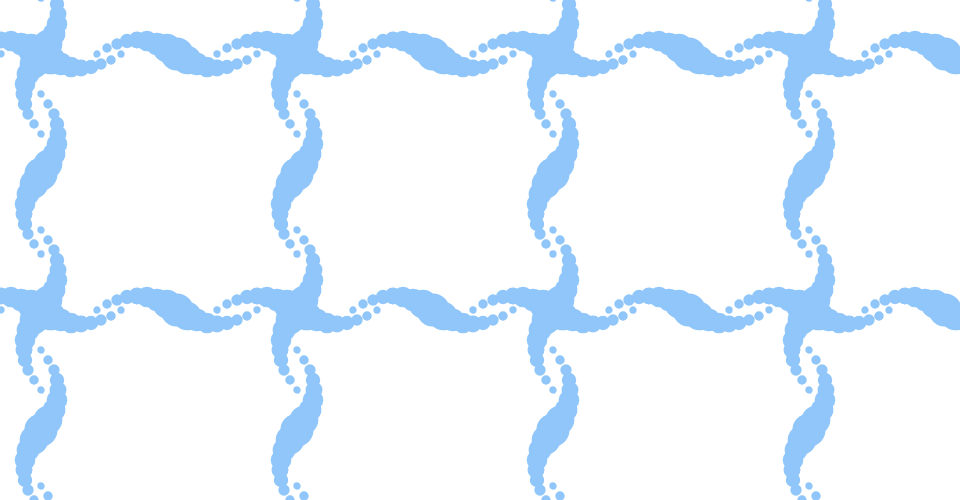
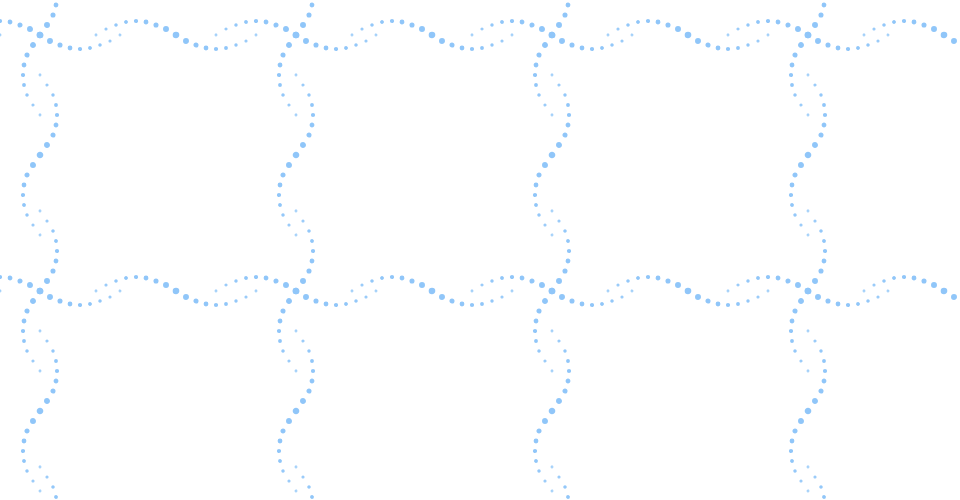
second attempt at animation

Changed region(s): [[0.0, 0.0, 1.0, 1.0]]

diff --git a/example_framed_dot.js b/example_framed_dot.js
@@ -281,286 +281,283 @@ let sineWave = p5.sin(p5.globalFrameCount/12);
   //ONLINE HORIZONTAL CIRCLE WAVES
   let circle1_x = p5.map(x-80, x1, x2, 0, 256);
   let circle1_y = p5.map(y, y1, y2, 0, 256);
-  p5.ellipse(circle1_x, circle1_y, (cur_ball_radius/7+pulse/7));
+  p5.ellipse(circle1_x, circle1_y, (cur_ball_radius/7+pulse/-7));
   
   let circle2_x = p5.map(x-70, x1, x2, 0, 256);
   let circle2_y = p5.map(y-6, y1, y2, 0, 256);
-  p5.ellipse(circle2_x, circle2_y, (cur_ball_radius/5+pulse/5));
+  p5.ellipse(circle2_x, circle2_y, (cur_ball_radius/5+pulse/-5));
 
   let circle3_x = p5.map(x-60, x1, x2, 0, 256);
   let circle3_y = p5.map(y-10, y1, y2, 0, 256);
-  p5.ellipse(circle3_x, circle3_y, (cur_ball_radius/4+pulse/4));
+  p5.ellipse(circle3_x, circle3_y, (cur_ball_radius/4+pulse/-4));
 
   let circle4_x = p5.map(x-50, x1, x2, 0, 256);
   let circle4_y = p5.map(y-13, y1, y2, 0, 256);
-  p5.ellipse(circle4_x, circle4_y, (cur_ball_radius/3+pulse/3));
+  p5.ellipse(circle4_x, circle4_y, (cur_ball_radius/3+pulse/-3));
 
   let circle5_x = p5.map(x-40, x1, x2, 0, 256);
   let circle5_y = p5.map(y-14, y1, y2, 0, 256);
-  p5.ellipse(circle5_x, circle5_y, (cur_ball_radius/2.5+pulse/2.5));
+  p5.ellipse(circle5_x, circle5_y, (cur_ball_radius/2.5+pulse/-2.5));
 
   let circle6_x = p5.map(x-30, x1, x2, 0, 256);
   let circle6_y = p5.map(y-13, y1, y2, 0, 256);
-  p5.ellipse(circle6_x, circle6_y, (cur_ball_radius/2+pulse/2));
+  p5.ellipse(circle6_x, circle6_y, (cur_ball_radius/2+pulse/-2));
 
   let circle7_x = p5.map(x-20, x1, x2, 0, 256);
   let circle7_y = p5.map(y-10, y1, y2, 0, 256);
-  p5.ellipse(circle7_x, circle7_y, (cur_ball_radius/1.8+pulse/1.8));
+  p5.ellipse(circle7_x, circle7_y, (cur_ball_radius/1.8+pulse/-1.8));
 
   let circle8_x = p5.map(x-10, x1, x2, 0, 256);
   let circle8_y = p5.map(y-6, y1, y2, 0, 256);
-  p5.ellipse(circle8_x, circle8_y, (cur_ball_radius/1.4+pulse/1.4));
+  p5.ellipse(circle8_x, circle8_y, (cur_ball_radius/1.4+pulse/-1.4));
 
   let circle9_x = p5.map(x, x1, x2, 0, 256);
   let circle9_y = p5.map(y, y1, y2, 0, 256);
-  p5.ellipse(circle9_x, circle9_y, (cur_ball_radius/1.2+pulse/1.2));
+  p5.ellipse(circle9_x, circle9_y, (cur_ball_radius/1.2+pulse/-1.2));
 
   let circle10_x = p5.map(x+10, x1, x2, 0, 256);
   let circle10_y = p5.map(y+6, y1, y2, 0, 256);
-  p5.ellipse(circle10_x, circle10_y, (cur_ball_radius/1.4+pulse/1.4));
+  p5.ellipse(circle10_x, circle10_y, (cur_ball_radius/1.4+pulse/-1.4));
 
   let circle11_x = p5.map(x+20, x1, x2, 0, 256);
   let circle11_y = p5.map(y+10, y1, y2, 0, 256);
-  p5.ellipse(circle11_x, circle11_y, (cur_ball_radius/1.8+pulse/1.8));
+  p5.ellipse(circle11_x, circle11_y, (cur_ball_radius/1.8+pulse/-1.8));
 
   let circle12_x = p5.map(x+30, x1, x2, 0, 256);
   let circle12_y = p5.map(y+13, y1, y2, 0, 256);
-  p5.ellipse(circle12_x, circle12_y, (cur_ball_radius/2+pulse/2));
+  p5.ellipse(circle12_x, circle12_y, (cur_ball_radius/2+pulse/-2));
 
   let circle13_x = p5.map(x+40, x1, x2, 0, 256);
   let circle13_y = p5.map(y+14, y1, y2, 0, 256);
-  p5.ellipse(circle13_x, circle13_y, (cur_ball_radius/2.5+pulse/2.5));
+  p5.ellipse(circle13_x, circle13_y, (cur_ball_radius/2.5+pulse/-2.5));
 
   let circle14_x = p5.map(x+50, x1, x2, 0, 256);
   let circle14_y = p5.map(y+13, y1, y2, 0, 256);
-  p5.ellipse(circle14_x, circle14_y, (cur_ball_radius/3+pulse/3));
+  p5.ellipse(circle14_x, circle14_y, (cur_ball_radius/3+pulse/-3));
 
   let circle15_x = p5.map(x+60, x1, x2, 0, 256);
   let circle15_y = p5.map(y+10, y1, y2, 0, 256);
-  p5.ellipse(circle15_x, circle15_y, (cur_ball_radius/4+pulse/4));
+  p5.ellipse(circle15_x, circle15_y, (cur_ball_radius/4+pulse/-4));
 
   let circle16_x = p5.map(x+70, x1, x2, 0, 256);
   let circle16_y = p5.map(y+6, y1, y2, 0, 256);
-  p5.ellipse(circle16_x, circle16_y, (cur_ball_radius/5+pulse/5));
+  p5.ellipse(circle16_x, circle16_y, (cur_ball_radius/5+pulse/-5));
 
   let circle17_x = p5.map(x+80, x1, x2, 0, 256);
   let circle17_y = p5.map(y, y1, y2, 0, 256);
-  p5.ellipse(circle17_x, circle17_y, (cur_ball_radius/7+pulse/7));
+  p5.ellipse(circle17_x, circle17_y, (cur_ball_radius/7+pulse/-7));
 
 
   //ONLINE HORIZONTAL CIRCLE WAVES 2
   let circleA1_x = p5.map(x+40, x1, x2, 0, 256);
   let circleA1_y = p5.map(y, y1, y2, 0, 256);
-  p5.ellipse(circleA1_x, circleA1_y, (cur_ball_radius/7+pulse/7));
+  p5.ellipse(circleA1_x, circleA1_y, (cur_ball_radius/7+pulse/-7));
   
   let circleA2_x = p5.map(x+50, x1, x2, 0, 256);
   let circleA2_y = p5.map(y-6, y1, y2, 0, 256);
-  p5.ellipse(circleA2_x, circleA2_y, (cur_ball_radius/5+pulse/5));
+  p5.ellipse(circleA2_x, circleA2_y, (cur_ball_radius/5+pulse/-5));
 
   let circleA3_x = p5.map(x+60, x1, x2, 0, 256);
   let circleA3_y = p5.map(y-10, y1, y2, 0, 256);
-  p5.ellipse(circleA3_x, circleA3_y, (cur_ball_radius/4+pulse/4));
+  p5.ellipse(circleA3_x, circleA3_y, (cur_ball_radius/4+pulse/-4));
 
   let circleA4_x = p5.map(x+70, x1, x2, 0, 256);
   let circleA4_y = p5.map(y-13, y1, y2, 0, 256);
-  p5.ellipse(circleA4_x, circleA4_y, (cur_ball_radius/3+pulse/3));
+  p5.ellipse(circleA4_x, circleA4_y, (cur_ball_radius/3+pulse/-3));
 
   let circleA5_x = p5.map(x+80, x1, x2, 0, 256);
   let circleA5_y = p5.map(y-14, y1, y2, 0, 256);
-  p5.ellipse(circleA5_x, circleA5_y, (cur_ball_radius/2.5+pulse/2.5));
+  p5.ellipse(circleA5_x, circleA5_y, (cur_ball_radius/2.5+pulse/-2.5));
 
   let circleA6_x = p5.map(x+90, x1, x2, 0, 256);
   let circleA6_y = p5.map(y-13, y1, y2, 0, 256);
-  p5.ellipse(circleA6_x, circleA6_y, (cur_ball_radius/2+pulse/2));
+  p5.ellipse(circleA6_x, circleA6_y, (cur_ball_radius/2+pulse/-2));
 
   let circleA7_x = p5.map(x+100, x1, x2, 0, 256);
   let circleA7_y = p5.map(y-10, y1, y2, 0, 256);
-  p5.ellipse(circleA7_x, circleA7_y, (cur_ball_radius/1.8+pulse/1.8));
+  p5.ellipse(circleA7_x, circleA7_y, (cur_ball_radius/1.8+pulse/-1.8));
 
   let circleA8_x = p5.map(x+110, x1, x2, 0, 256);
   let circleA8_y = p5.map(y-6, y1, y2, 0, 256);
-  p5.ellipse(circleA8_x, circleA8_y, (cur_ball_radius/1.4+pulse/1.4));
+  p5.ellipse(circleA8_x, circleA8_y, (cur_ball_radius/1.4+pulse/-1.4));
 
   let circleA9_x = p5.map(x+120, x1, x2, 0, 256);
   let circleA9_y = p5.map(y, y1, y2, 0, 256);
-  p5.ellipse(circleA9_x, circleA9_y, (cur_ball_radius/1.2+pulse/1.2));
+  p5.ellipse(circleA9_x, circleA9_y, (cur_ball_radius/1.2+pulse/-1.2));
 
   let circleA10_x = p5.map(x+130, x1, x2, 0, 256);
   let circleA10_y = p5.map(y+6, y1, y2, 0, 256);
-  p5.ellipse(circleA10_x, circleA10_y, (cur_ball_radius/1.4+pulse/1.4));
+  p5.ellipse(circleA10_x, circleA10_y, (cur_ball_radius/1.4+pulse/-1.4));
 
   let circleA11_x = p5.map(x+140, x1, x2, 0, 256);
   let circleA11_y = p5.map(y+10, y1, y2, 0, 256);
-  p5.ellipse(circleA11_x, circleA11_y, (cur_ball_radius/1.8+pulse/1.8));
+  p5.ellipse(circleA11_x, circleA11_y, (cur_ball_radius/1.8+pulse/-1.8));
 
   let circleA12_x = p5.map(x+150, x1, x2, 0, 256);
   let circleA12_y = p5.map(y+13, y1, y2, 0, 256);
-  p5.ellipse(circleA12_x, circleA12_y, (cur_ball_radius/2+pulse/2));
+  p5.ellipse(circleA12_x, circleA12_y, (cur_ball_radius/2+pulse/-2));
 
   let circleA13_x = p5.map(x+160, x1, x2, 0, 256);
   let circleA13_y = p5.map(y+14, y1, y2, 0, 256);
-  p5.ellipse(circleA13_x, circleA13_y, (cur_ball_radius/2.5+pulse/2.5));
+  p5.ellipse(circleA13_x, circleA13_y, (cur_ball_radius/2.5+pulse/-2.5));
 
   let circleA14_x = p5.map(x+170, x1, x2, 0, 256);
   let circleA14_y = p5.map(y+13, y1, y2, 0, 256);
-  p5.ellipse(circleA14_x, circleA14_y, (cur_ball_radius/3+pulse/3));
+  p5.ellipse(circleA14_x, circleA14_y, (cur_ball_radius/3+pulse/-3));
 
   let circleA15_x = p5.map(x+180, x1, x2, 0, 256);
   let circleA15_y = p5.map(y+10, y1, y2, 0, 256);
-  p5.ellipse(circleA15_x, circleA15_y, (cur_ball_radius/4+pulse/4));
+  p5.ellipse(circleA15_x, circleA15_y, (cur_ball_radius/4+pulse/-4));
 
   let circleA16_x = p5.map(x+190, x1, x2, 0, 256);
   let circleA16_y = p5.map(y+6, y1, y2, 0, 256);
-  p5.ellipse(circleA16_x, circleA16_y, (cur_ball_radius/5+pulse/5));
+  p5.ellipse(circleA16_x, circleA16_y, (cur_ball_radius/5+pulse/-5));
 
   let circleA17_x = p5.map(x+200, x1, x2, 0, 256);
   let circleA17_y = p5.map(y, y1, y2, 0, 256);
-  p5.ellipse(circleA17_x, circleA17_y, (cur_ball_radius/7+pulse/7));
+  p5.ellipse(circleA17_x, circleA17_y, (cur_ball_radius/7+pulse/-7));
 
 
   //VERTICAL CIRCLE WAVES 
 
   let circleD1_x = p5.map(x+120, x1, x2, 0, 256);
   let circleD1_y = p5.map(y+200, y1, y2, 0, 256);
-  p5.ellipse(circleD1_x, circleD1_y, (cur_ball_radius/7+pulse/7));
+  p5.ellipse(circleD1_x, circleD1_y, (cur_ball_radius/7+pulse/-7));
   
   let circleD2_x = p5.map(x+113, x1, x2, 0, 256);
   let circleD2_y = p5.map(y+190, y1, y2, 0, 256);
-  p5.ellipse(circleD2_x, circleD2_y, (cur_ball_radius/5+pulse/5));
+  p5.ellipse(circleD2_x, circleD2_y, (cur_ball_radius/5+pulse/-5));
 
   let circleD3_x = p5.map(x+107, x1, x2, 0, 256);
   let circleD3_y = p5.map(y+180, y1, y2, 0, 256);
-  p5.ellipse(circleD3_x, circleD3_y, (cur_ball_radius/4+pulse/4));
+  p5.ellipse(circleD3_x, circleD3_y, (cur_ball_radius/4+pulse/-4));
 
   let circleD4_x = p5.map(x+104, x1, x2, 0, 256);
   let circleD4_y = p5.map(y+170, y1, y2, 0, 256);
-  p5.ellipse(circleD4_x, circleD4_y, (cur_ball_radius/3+pulse/3));
+  p5.ellipse(circleD4_x, circleD4_y, (cur_ball_radius/3+pulse/-3));
 
   let circleD5_x = p5.map(x+103, x1, x2, 0, 256);
   let circleD5_y = p5.map(y+160, y1, y2, 0, 256);
-  p5.ellipse(circleD5_x, circleD5_y, (cur_ball_radius/2.5+pulse/2.5));
+  p5.ellipse(circleD5_x, circleD5_y, (cur_ball_radius/2.5+pulse/-2.5));
 
   let circleD6_x = p5.map(x+104, x1, x2, 0, 256);
   let circleD6_y = p5.map(y+150, y1, y2, 0, 256);
-  p5.ellipse(circleD6_x, circleD6_y, (cur_ball_radius/2+pulse/2));
+  p5.ellipse(circleD6_x, circleD6_y, (cur_ball_radius/2+pulse/-2));
 
   let circleD7_x = p5.map(x+107, x1, x2, 0, 256);
   let circleD7_y = p5.map(y+140, y1, y2, 0, 256);
-  p5.ellipse(circleD7_x, circleD7_y, (cur_ball_radius/1.8+pulse/1.8));
+  p5.ellipse(circleD7_x, circleD7_y, (cur_ball_radius/1.8+pulse/-1.8));
 
   let circleD8_x = p5.map(x+113, x1, x2, 0, 256);
   let circleD8_y = p5.map(y+130, y1, y2, 0, 256);
-  p5.ellipse(circleD8_x, circleD8_y, (cur_ball_radius/1.4+pulse/1.4));
+  p5.ellipse(circleD8_x, circleD8_y, (cur_ball_radius/1.4+pulse/-1.4));
 
   let circleD9_x = p5.map(x+120, x1, x2, 0, 256);
   let circleD9_y = p5.map(y+120, y1, y2, 0, 256);
-  p5.ellipse(circleD9_x, circleD9_y, (cur_ball_radius/1.2+pulse/1.2));
+  p5.ellipse(circleD9_x, circleD9_y, (cur_ball_radius/1.2+pulse/-1.2));
 
   let circleD10_x = p5.map(x+127, x1, x2, 0, 256);
   let circleD10_y = p5.map(y+110, y1, y2, 0, 256);
-  p5.ellipse(circleD10_x, circleD10_y, (cur_ball_radius/1.4+pulse/1.4));
+  p5.ellipse(circleD10_x, circleD10_y, (cur_ball_radius/1.4+pulse/-1.4));
 
   let circleD11_x = p5.map(x+133, x1, x2, 0, 256);
   let circleD11_y = p5.map(y+100, y1, y2, 0, 256);
-  p5.ellipse(circleD11_x, circleD11_y, (cur_ball_radius/1.8+pulse/1.8));
+  p5.ellipse(circleD11_x, circleD11_y, (cur_ball_radius/1.8+pulse/-1.8));
 
   let circleD12_x = p5.map(x+136, x1, x2, 0, 256);
   let circleD12_y = p5.map(y+90, y1, y2, 0, 256);
-  p5.ellipse(circleD12_x, circleD12_y, (cur_ball_radius/2+pulse/2));
+  p5.ellipse(circleD12_x, circleD12_y, (cur_ball_radius/2+pulse/-2));
 
   let circleD13_x = p5.map(x+137, x1, x2, 0, 256);
   let circleD13_y = p5.map(y+80, y1, y2, 0, 256);
-  p5.ellipse(circleD13_x, circleD13_y, (cur_ball_radius/2.5+pulse/2.5));
+  p5.ellipse(circleD13_x, circleD13_y, (cur_ball_radius/2.5+pulse/-2.5));
 
   let circleD14_x = p5.map(x+136, x1, x2, 0, 256);
   let circleD14_y = p5.map(y+70, y1, y2, 0, 256);
-  p5.ellipse(circleD14_x, circleD14_y, (cur_ball_radius/3+pulse/3));
+  p5.ellipse(circleD14_x, circleD14_y, (cur_ball_radius/3+pulse/-3));
 
   let circleD15_x = p5.map(x+133, x1, x2, 0, 256);
   let circleD15_y = p5.map(y+60, y1, y2, 0, 256);
-  p5.ellipse(circleD15_x, circleD15_y, (cur_ball_radius/4+pulse/4));
+  p5.ellipse(circleD15_x, circleD15_y, (cur_ball_radius/4+pulse/-4));
 
   let circleD16_x = p5.map(x+127, x1, x2, 0, 256);
   let circleD16_y = p5.map(y+50, y1, y2, 0, 256);
-  p5.ellipse(circleD16_x, circleD16_y, (cur_ball_radius/5+pulse/5));
+  p5.ellipse(circleD16_x, circleD16_y, (cur_ball_radius/5+pulse/-5));
 
   let circleD17_x = p5.map(x+120, x1, x2, 0, 256);
   let circleD17_y = p5.map(y+40, y1, y2, 0, 256);
-  p5.ellipse(circleD17_x, circleD17_y, (cur_ball_radius/7+pulse/7));
+  p5.ellipse(circleD17_x, circleD17_y, (cur_ball_radius/7+pulse/-7));
 
 
 
   //VERTICAL CIRCLE WAVES 2
   let circleE1_x = p5.map(x+120, x1, x2, 0, 256);
   let circleE1_y = p5.map(y+80, y1, y2, 0, 256);
-  p5.ellipse(circleE1_x, circleE1_y, (cur_ball_radius/7+pulse/7));
+  p5.ellipse(circleE1_x, circleE1_y, (cur_ball_radius/7+pulse/-7));
   
   let circleE2_x = p5.map(x+113, x1, x2, 0, 256);
   let circleE2_y = p5.map(y+70, y1, y2, 0, 256);
-  p5.ellipse(circleE2_x, circleE2_y, (cur_ball_radius/5+pulse/5));
+  p5.ellipse(circleE2_x, circleE2_y, (cur_ball_radius/5+pulse/-5));
 
   let circleE3_x = p5.map(x+107, x1, x2, 0, 256);
   let circleE3_y = p5.map(y+60, y1, y2, 0, 256);
-  p5.ellipse(circleE3_x, circleE3_y, (cur_ball_radius/4+pulse/4));
+  p5.ellipse(circleE3_x, circleE3_y, (cur_ball_radius/4+pulse/-4));
 
   let circleE4_x = p5.map(x+104, x1, x2, 0, 256);
   let circleE4_y = p5.map(y+50, y1, y2, 0, 256);
-  p5.ellipse(circleE4_x, circleE4_y, (cur_ball_radius/3+pulse/3));
+  p5.ellipse(circleE4_x, circleE4_y, (cur_ball_radius/3+pulse/-3));
 
   let circleE5_x = p5.map(x+103, x1, x2, 0, 256);
   let circleE5_y = p5.map(y+40, y1, y2, 0, 256);
-  p5.ellipse(circleE5_x, circleE5_y, (cur_ball_radius/2.5+pulse/2.5));
+  p5.ellipse(circleE5_x, circleE5_y, (cur_ball_radius/2.5+pulse/-2.5));
 
   let circleE6_x = p5.map(x+104, x1, x2, 0, 256);
   let circleE6_y = p5.map(y+30, y1, y2, 0, 256);
-  p5.ellipse(circleE6_x, circleE6_y, (cur_ball_radius/2+pulse/2));
+  p5.ellipse(circleE6_x, circleE6_y, (cur_ball_radius/2+pulse/-2));
 
   let circleE7_x = p5.map(x+107, x1, x2, 0, 256);
   let circleE7_y = p5.map(y+20, y1, y2, 0, 256);
-  p5.ellipse(circleE7_x, circleE7_y, (cur_ball_radius/1.8+pulse/1.8));
+  p5.ellipse(circleE7_x, circleE7_y, (cur_ball_radius/1.8+pulse/-1.8));
 
   let circleE8_x = p5.map(x+113, x1, x2, 0, 256);
   let circleE8_y = p5.map(y+10, y1, y2, 0, 256);
-  p5.ellipse(circleE8_x, circleE8_y, (cur_ball_radius/1.4+pulse/1.4));
+  p5.ellipse(circleE8_x, circleE8_y, (cur_ball_radius/1.4+pulse/-1.4));
 
   let circleE9_x = p5.map(x+120, x1, x2, 0, 256);
   let circleE9_y = p5.map(y, y1, y2, 0, 256);
-  p5.ellipse(circleE9_x, circleE9_y, (cur_ball_radius/1.+pulse/1.));
+  p5.ellipse(circleE9_x, circleE9_y, (cur_ball_radius/1.2+pulse/-1.2));
 
   let circleE10_x = p5.map(x+127, x1, x2, 0, 256);
   let circleE10_y = p5.map(y-10, y1, y2, 0, 256);
-  p5.ellipse(circleE10_x, circleE10_y, (cur_ball_radius/1.4+pulse/1.4));
+  p5.ellipse(circleE10_x, circleE10_y, (cur_ball_radius/1.4+pulse/-1.4));
 
   let circleE11_x = p5.map(x+133, x1, x2, 0, 256);
   let circleE11_y = p5.map(y-20, y1, y2, 0, 256);
-  p5.ellipse(circleE11_x, circleE11_y, (cur_ball_radius/1.8+pulse/1.8));
+  p5.ellipse(circleE11_x, circleE11_y, (cur_ball_radius/1.8+pulse/-1.8));
 
   let circleE12_x = p5.map(x+136, x1, x2, 0, 256);
   let circleE12_y = p5.map(y-30, y1, y2, 0, 256);
-  p5.ellipse(circleE12_x, circleE12_y, (cur_ball_radius/2+pulse/2));
+  p5.ellipse(circleE12_x, circleE12_y, (cur_ball_radius/2+pulse/-2));
 
   let circleE13_x = p5.map(x+137, x1, x2, 0, 256);
   let circleE13_y = p5.map(y-40, y1, y2, 0, 256);
-  p5.ellipse(circleE13_x, circleE13_y, (cur_ball_radius/2.5+pulse/2.5));
+  p5.ellipse(circleE13_x, circleE13_y, (cur_ball_radius/2.5+pulse/-2.5));
 
   let circleE14_x = p5.map(x+136, x1, x2, 0, 256);
   let circleE14_y = p5.map(y-50, y1, y2, 0, 256);
-  p5.ellipse(circleE14_x, circleE14_y, (cur_ball_radius/3+pulse/3));
+  p5.ellipse(circleE14_x, circleE14_y, (cur_ball_radius/3+pulse/-3));
 
   let circleE15_x = p5.map(x+133, x1, x2, 0, 256);
   let circleE15_y = p5.map(y-60, y1, y2, 0, 256);
-  p5.ellipse(circleE15_x, circleE15_y, (cur_ball_radius/4+pulse/4));
+  p5.ellipse(circleE15_x, circleE15_y, (cur_ball_radius/4+pulse/-4));
 
   let circleE16_x = p5.map(x+127, x1, x2, 0, 256);
   let circleE16_y = p5.map(y-70, y1, y2, 0, 256);
-  p5.ellipse(circleE16_x, circleE16_y, (cur_ball_radius/5+pulse/5));
+  p5.ellipse(circleE16_x, circleE16_y, (cur_ball_radius/5+pulse/-5));
 
   let circleE17_x = p5.map(x+120, x1, x2, 0, 256);
   let circleE17_y = p5.map(y-80, y1, y2, 0, 256);
-  p5.ellipse(circleE17_x, circleE17_y, (cur_ball_radius/7+pulse/7));
-
-
-
+  p5.ellipse(circleE17_x, circleE17_y, (cur_ball_radius/7+pulse/-7));
 
     
 }

diff --git a/README.md b/README.md
@@ -1,3 +1,3 @@
 ## PS4 MDDN 342 2018
 
-After a lot of trial and error and deconstructing other peoples animation code I have finally got my circles to pulse in size. Although it doesn’t look how I want it to right now this is a good step in the right direction. I just need to play with some numbers to see which replicates my last project the best.
+Second attempt at animating the circles so they pulse. I think it is coming along well and looking more how I want it too but it’s not there yet.
